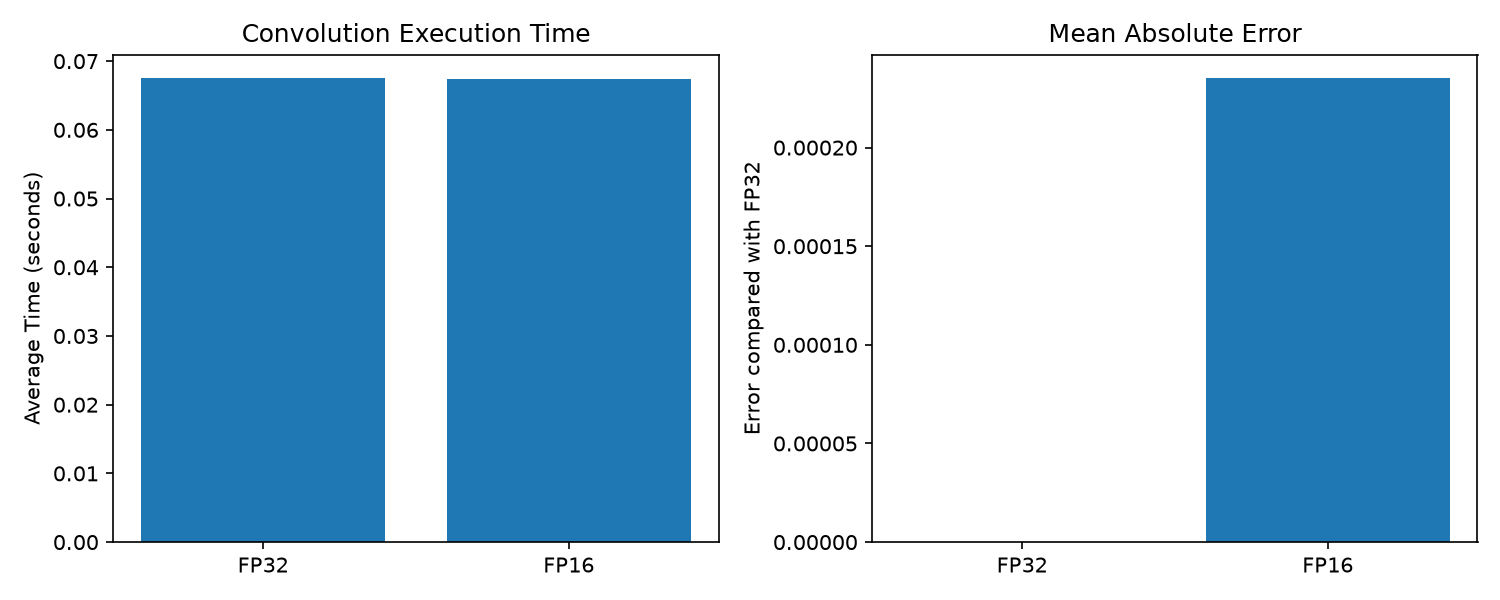
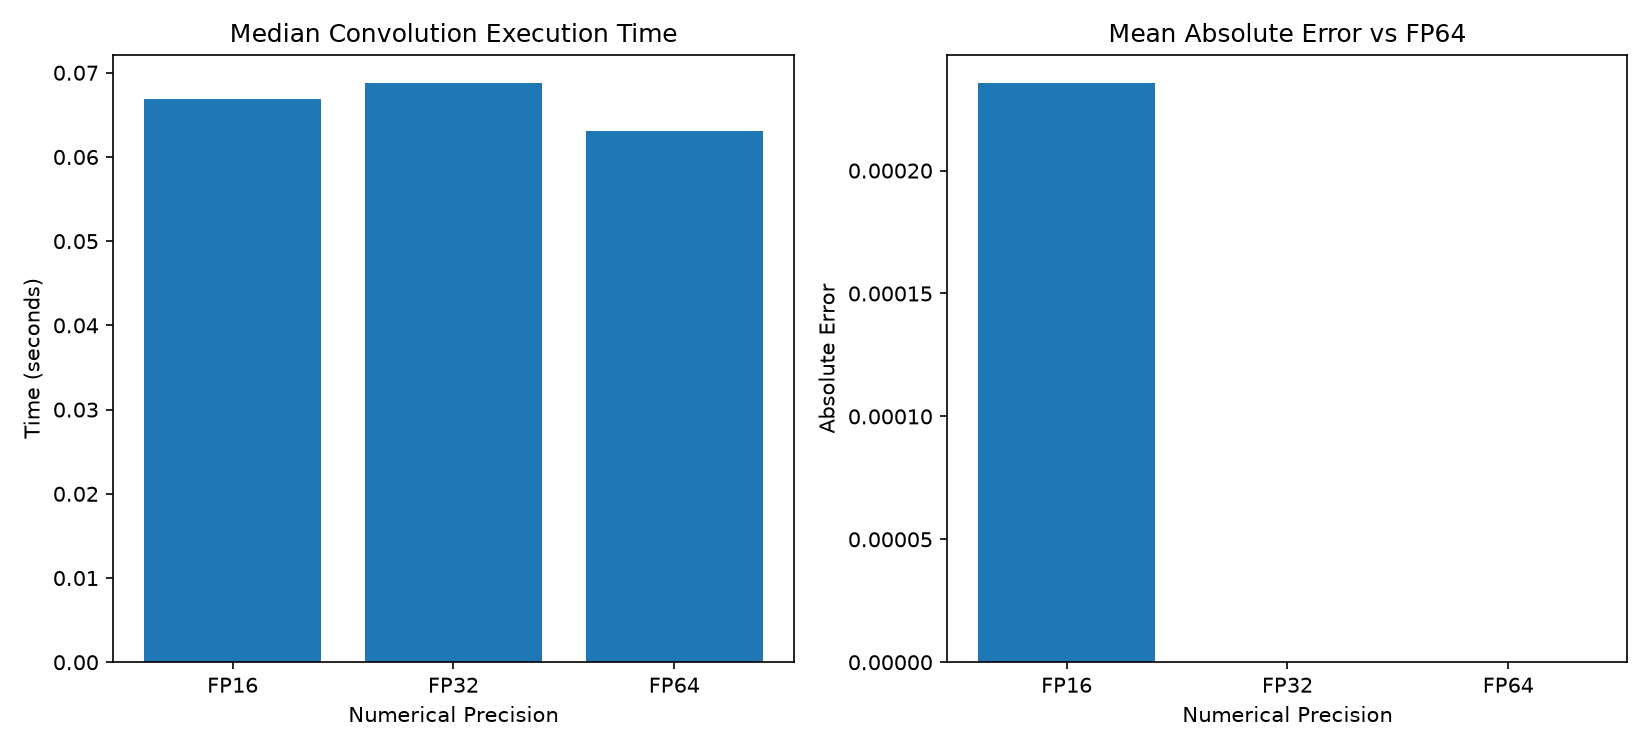
Extend precision analysis to FP16 FP32 and FP64

diff --git a/convolution_analyzer.py b/convolution_analyzer.py
@@ -4,10 +4,9 @@ import matplotlib.pyplot as plt
 import time
 import csv
 
-# Low-Precision Convolution Analyzer
-# Compare FP32 and FP16 numerical precision
 
 def convolution(image, kernel, dtype):
+    """Perform valid 2D convolution-style filtering at a chosen precision."""
     image = image.astype(dtype)
     kernel = kernel.astype(dtype)
 
@@ -22,95 +21,110 @@ def convolution(image, kernel, dtype):
     for i in range(height - kh + 1):
         for j in range(width - kw + 1):
             region = image[i:i + kh, j:j + kw]
-            # Explicitly round products and accumulation
+
+            # Round products and accumulation to the chosen precision
             products = (region * kernel).astype(dtype)
-            total = np.sum(products, dtype=dtype)
-            output[i, j] = total
+            output[i, j] = np.sum(products, dtype=dtype)
 
     return output
+
+
+def measure_time(image, kernel, dtype, repeats=10):
+    """Measure average execution time over repeated runs."""
+    # Warm-up run
+    convolution(image, kernel, dtype)
+
+    timings = []
+
+    for _ in range(repeats):
+        start = time.perf_counter()
+        convolution(image, kernel, dtype)
+        timings.append(time.perf_counter() - start)
+
+    return float(np.median(timings))
 
 
 def main():
     np.random.seed(42)
 
-    # Create a sample 128 x 128 image and a 3 x 3 kernel
-    image = np.random.rand(128, 128).astype(np.float32)
+    # Fixed input makes comparisons reproducible
+    image = np.random.rand(128, 128).astype(np.float64)
+
     kernel = np.array([
         [1, 0, -1],
         [1, 0, -1],
         [1, 0, -1]
-    ], dtype=np.float32)
+    ], dtype=np.float64)
 
-    # Use FP32 as the reference result
-    reference = convolution(image, kernel, np.float32)
+    # FP64 is the higher-precision reference
+    reference = convolution(image, kernel, np.float64).astype(np.float64)
+
+    precision_levels = [
+        ("FP16", np.float16),
+        ("FP32", np.float32),
+        ("FP64", np.float64)
+    ]
 
     results = []
-    outputs = {}
 
-    for name, dtype in [
-        ("FP32", np.float32),
-        ("FP16", np.float16)
-    ]:
-        # Repeat the operation to obtain a more stable timing
-        start = time.perf_counter()
-        for _ in range(5):
-            output = convolution(image, kernel, dtype)
-        elapsed = (time.perf_counter() - start) / 5
+    for name, dtype in precision_levels:
+        output = convolution(image, kernel, dtype).astype(np.float64)
 
-        # Compare each result against the FP32 reference
-        difference = output.astype(np.float64) - reference.astype(np.float64)
-        absolute_error = np.abs(difference)
+        difference = np.abs(output - reference)
+        max_error = float(np.max(difference))
+        mean_error = float(np.mean(difference))
 
-        max_error = float(np.max(absolute_error))
-        mean_error = float(np.mean(absolute_error))
+        elapsed = measure_time(image, kernel, dtype)
 
         results.append({
             "Precision": name,
-            "Time (seconds)": elapsed,
+            "Median Time (seconds)": elapsed,
             "Maximum Absolute Error": max_error,
             "Mean Absolute Error": mean_error
         })
-        outputs[name] = output
 
-    # Display the results
     print("\nLOW-PRECISION CONVOLUTION ANALYSIS")
-    print("-" * 72)
-    print(f"{'Precision':<12}{'Time (s)':<15}"
-          f"{'Maximum Error':<20}{'Mean Error':<15}")
+    print("=" * 88)
+    print(
+        f"{'Precision':<12}"
+        f"{'Median Time (s)':<20}"
+        f"{'Maximum Error':<22}"
+        f"{'Mean Error':<22}"
+    )
 
     for row in results:
         print(
             f"{row['Precision']:<12}"
-            f"{row['Time (seconds)']:<15.6f}"
-            f"{row['Maximum Absolute Error']:<20.8f}"
-            f"{row['Mean Absolute Error']:<15.8f}"
+            f"{row['Median Time (seconds)']:<20.6f}"
+            f"{row['Maximum Absolute Error']:<22.8f}"
+            f"{row['Mean Absolute Error']:<22.8f}"
         )
 
-    # Save the measurements to a CSV file
     with open("results.csv", "w", newline="") as file:
         writer = csv.DictWriter(file, fieldnames=results[0].keys())
         writer.writeheader()
         writer.writerows(results)
 
-    # Plot numerical error and execution time
     names = [row["Precision"] for row in results]
-    times = [row["Time (seconds)"] for row in results]
+    times = [row["Median Time (seconds)"] for row in results]
     errors = [row["Mean Absolute Error"] for row in results]
 
-    fig, axes = plt.subplots(1, 2, figsize=(10, 4))
+    fig, axes = plt.subplots(1, 2, figsize=(11, 5))
 
     axes[0].bar(names, times)
-    axes[0].set_title("Convolution Execution Time")
-    axes[0].set_ylabel("Average Time (seconds)")
+    axes[0].set_title("Median Convolution Execution Time")
+    axes[0].set_ylabel("Time (seconds)")
+    axes[0].set_xlabel("Numerical Precision")
 
     axes[1].bar(names, errors)
-    axes[1].set_title("Mean Absolute Error")
-    axes[1].set_ylabel("Error compared with FP32")
+    axes[1].set_title("Mean Absolute Error vs FP64")
+    axes[1].set_ylabel("Absolute Error")
+    axes[1].set_xlabel("Numerical Precision")
 
     plt.tight_layout()
     plt.savefig("comparison_graph.png", dpi=150)
-    print("\nFiles saved: results.csv and comparison_graph.png")
 
+    print("\nUpdated results.csv and comparison_graph.png")
     plt.show()
 
 
